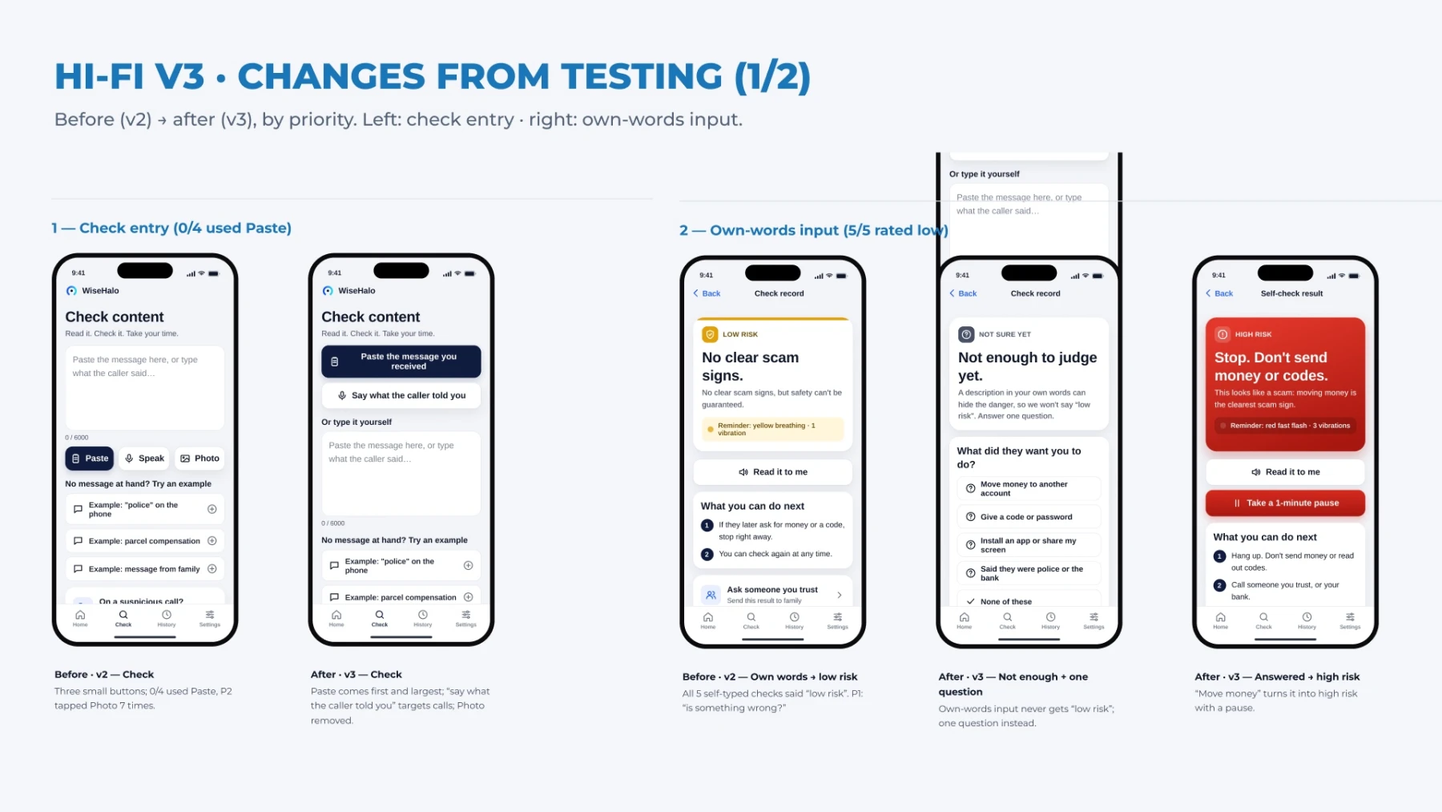
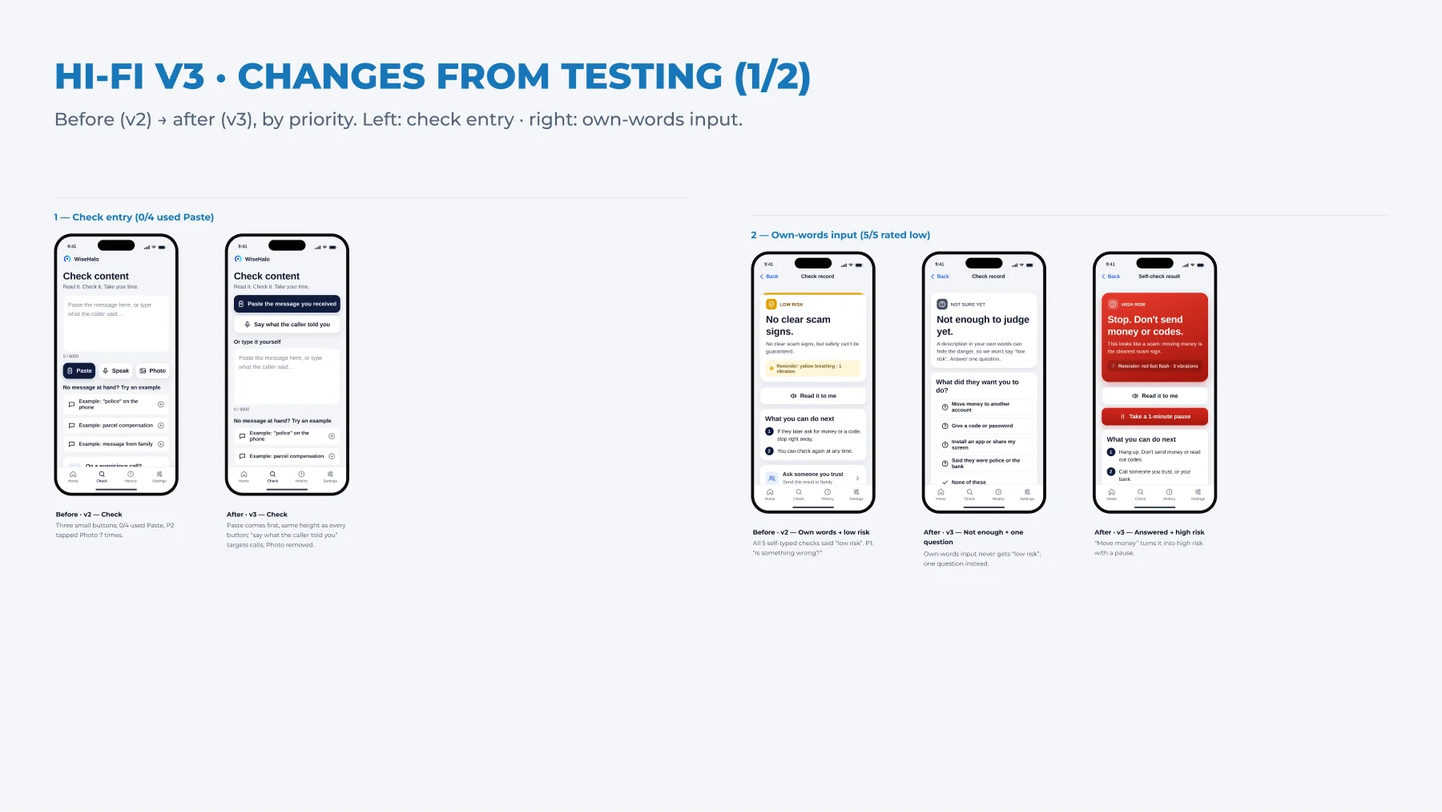
WiseHalo case study: v3 figures match the build
- 48: check entry with Paste at button height and even example rows
- 48b (new): safety pause and one-tap official check, before → after
- 48c (new): after review – text size in onboarding (Standard default), centred ring, swipe to delete
- 50: reflection next steps say the six fixes are built into v3
- 47 alt text updated

diff --git a/works/wisehalo.html b/works/wisehalo.html
@@ -38,7 +38,7 @@ try{if(!sessionStorage.getItem('wz-loaded')&&!matchMedia('(prefers-reduced-motio
 <main class="project">
   <section class="meta"><div class="m-row"><span><span class="l-zh" lang="zh-Hans-CN">项目类型</span><span class="l-en" lang="en">Project type</span></span><span class="span2"><span class="l-zh" lang="zh-Hans-CN">AI + IOT 硕士毕业设计项目</span><span class="l-en" lang="en">AI + IoT MA thesis project</span></span></div><div class="m-row"><span><span class="l-zh" lang="zh-Hans-CN">项目名称</span><span class="l-en" lang="en">Project name</span></span><span class="span2"><span class="l-zh" lang="zh-Hans-CN">WiseHalo｜AI 防诈骗风险提示系统</span><span class="l-en" lang="en">WiseHalo — Making Hidden Scam Systems Visible</span></span></div><div class="m-row"><span><span class="l-zh" lang="zh-Hans-CN">分类</span><span class="l-en" lang="en">Category</span></span><span class="span2"><span class="tag">[<span class="l-zh" lang="zh-Hans-CN">AI</span><span class="l-en" lang="en">AI</span>]</span><span class="tag">[<span class="l-zh" lang="zh-Hans-CN">交互设计</span><span class="l-en" lang="en">Interaction design</span>]</span><span class="tag">[<span class="l-zh" lang="zh-Hans-CN">IOT</span><span class="l-en" lang="en">IoT</span>]</span><span class="tag">[<span class="l-zh" lang="zh-Hans-CN">适老化</span><span class="l-en" lang="en">Age-inclusive</span>]</span></span></div><div class="m-row"><span><span class="l-zh" lang="zh-Hans-CN">时间</span><span class="l-en" lang="en">Date</span></span><span class="span2">11.2026</span></div></section>
   <div class="p-grid">
-    <div class="p-main"><figure class="fig"><img src="../images/wisehalo/00-hero.webp?v=1794632484" width="1800" height="1012" alt=""></figure><div class="sec-head tldr"><span>00</span><span><span class="l-zh" lang="zh-Hans-CN">概要</span><span class="l-en" lang="en">Overview</span></span><span class="sec-text"><span class="l-zh" lang="zh-Hans-CN"><b>问题</b>：50–65 岁的人在诈骗里最缺的，不是更多警告，而是关键时刻有人解释“为什么可疑”，并帮他们停下来。<br><b>洞察</b>：用户想要提醒和解释；但真正止损的案例，都靠暂停和第三方核实。<br><b>方案</b>：AI 解释风险的 iOS App + 桌上提醒器——风险越高反馈越强，高风险时红灯一直亮，直到用户暂停或核实。<br><b>我的角色</b>：独立完成研究、交互与界面、iOS 原型和 ESP32 硬件。<br>20 个公开案例 · 32 份问卷 · 4 位长辈测试 · 3 级风险反馈 · <a class="u" href="#demo">直接试玩 ↓</a></span><span class="l-en" lang="en"><b>Problem</b>: people aged 50–65 don’t need more warnings – they need someone to explain why something is suspicious, and help them stop at the critical moment.<br><b>Insight</b>: users asked for alerts and explanations, yet every stopped case relied on a pause and a third party.<br><b>Design</b>: an iOS app where AI explains the risk, plus a desk reminder – stronger risk, stronger response; on high risk the red light stays on until the user pauses or verifies.<br><b>My role</b>: solo – research, interaction &amp; UI, iOS prototype and ESP32 hardware.<br>20 public cases · 32 surveys · 4 user tests · 3 risk levels · <a class="u" href="#demo">Try the demo ↓</a></span></span></div><div class="sec-head"><span>01</span><span><span class="l-zh" lang="zh-Hans-CN">问题：诈骗是一个系统</span><span class="l-en" lang="en">Problem: scams are systems</span></span><span class="sec-text"><span class="l-zh" lang="zh-Hans-CN">公开案例显示，诈骗从社交平台和日常任务开始接触用户，用虚假身份建立信任，再用紧迫感和小额回报推动用户做出高风险操作。大多数人只看到表面信息，看不到背后的运作方式，也就很难在中途停下来。</span><span class="l-en" lang="en">Public cases show scams reach people through everyday channels, build trust with fake identities, then use urgency and small rewards to push risky actions. Most people only see the surface message, not the system behind it — so it is hard to stop midway.</span></span></div><div class="figs figs-stack"><figure class="fig zoom"><img class="l-zh" src="../images/wisehalo/01-zh.webp?v=1794736027" width="1800" height="1013" alt="" loading="lazy" decoding="async"><img class="l-en" src="../images/wisehalo/01.webp?v=1794632484" width="1800" height="1012" alt="" loading="lazy" decoding="async"></figure></div><div class="sec-head"><span>02</span><span><span class="l-zh" lang="zh-Hans-CN">研究：20 个公开案例 + 32 份问卷</span><span class="l-en" lang="en">Research: 20 public cases + 32 surveys</span></span><span class="sec-text"><span class="l-zh" lang="zh-Hans-CN">我分析了 20 个中国 50–65 岁受害者的公开案例，并对 32 人做了线上问卷（其中 50 岁以上 15 人）。大多数人在可疑互动中会提前退出，但最需要的不是更多警告，而是“为什么可疑”的具体解释、可以马上执行的下一步，以及对保护工具本身的信任。</span><span class="l-en" lang="en">I analysed 20 public cases of victims aged 50–65 in China and ran an online survey with 32 people (15 aged 50+). Most respondents already exit suspicious interactions early — what they need is not more warnings, but a specific explanation of why something is suspicious, an actionable next step, and trust in the protective tool itself.</span></span></div><div class="figs figs-stack"><figure class="fig zoom"><img class="l-zh" src="../images/wisehalo/39-zh.webp?v=1794736027" width="1800" height="1013" alt="" loading="lazy" decoding="async"><img class="l-en" src="../images/wisehalo/39.webp?v=1794732906" width="1800" height="1013" alt="" loading="lazy" decoding="async"></figure><figure class="fig zoom"><img class="l-zh" src="../images/wisehalo/07-zh.webp?v=1794736027" width="1800" height="1013" alt="" loading="lazy" decoding="async"><img class="l-en" src="../images/wisehalo/07.webp?v=1794632485" width="1800" height="1012" alt="" loading="lazy" decoding="async"></figure><figure class="fig zoom"><img class="l-zh" src="../images/wisehalo/08-zh.webp?v=1794736027" width="1800" height="1013" alt="" loading="lazy" decoding="async"><img class="l-en" src="../images/wisehalo/08.webp?v=1794732387" width="1800" height="1013" alt="" loading="lazy" decoding="async"></figure></div><div class="sec-head"><span>03</span><span><span class="l-zh" lang="zh-Hans-CN">策略：风险越高，反馈越强</span><span class="l-en" lang="en">Strategy: stronger risk, stronger response</span></span><span class="sec-text"><span class="l-zh" lang="zh-Hans-CN">设备的反馈随风险逐级升级：低风险用黄色呼吸灯提示“核实来源”；中风险用橙色双脉冲并解释诈骗手法、建议联系信任的人；高风险用红色快闪和重复震动，配合手机全屏提示暂停付款。始终由用户自己决定下一步。</span><span class="l-en" lang="en">Feedback escalates with risk: low risk shows a yellow breathing light and suggests checking the source; medium risk adds an orange double pulse, explains the tactic and suggests contacting someone trusted; high risk uses a fast red flash and repeated vibration with a full-screen prompt to pause the payment. The user always makes the final call.</span></span></div><div class="figs figs-stack"><figure class="fig zoom"><img class="l-zh" src="../images/wisehalo/10-zh.webp?v=1794821514" width="1800" height="1013" alt="" loading="lazy" decoding="async"><img class="l-en" src="../images/wisehalo/10.webp?v=1794821514" width="1800" height="1013" alt="" loading="lazy" decoding="async"></figure></div><div class="sec-head"><span>04</span><span><span class="l-zh" lang="zh-Hans-CN">系统与信息架构</span><span class="l-en" lang="en">System &amp; information architecture</span></span><span class="sec-text"><span class="l-zh" lang="zh-Hans-CN">手机端负责接收可疑内容、调用 AI 分析并解释风险；设备端把风险等级转化为灯光与震动。信息架构围绕“检查 → 理解 → 选择安全行动”三步组织。</span><span class="l-en" lang="en">The phone receives suspicious content, calls the AI analysis and explains the risk; the device translates the risk level into light and vibration. The information architecture follows three steps: check → understand → choose a safe action.</span></span></div><div class="figs figs-stack"><figure class="fig zoom"><img class="l-zh" src="../images/wisehalo/15-zh.webp?v=1794784326" width="1800" height="1013" alt="" loading="lazy" decoding="async"><img class="l-en" src="../images/wisehalo/15.webp?v=1794784326" width="1800" height="1013" alt="" loading="lazy" decoding="async"></figure><figure class="fig zoom"><img class="l-zh" src="../images/wisehalo/16-zh.webp?v=1794784326" width="1800" height="1013" alt="" loading="lazy" decoding="async"><img class="l-en" src="../images/wisehalo/16.webp?v=1794784326" width="1800" height="1013" alt="" loading="lazy" decoding="async"></figure></div><div class="sec-head"><span>05</span><span><span class="l-zh" lang="zh-Hans-CN">界面：从中保真到高保真</span><span class="l-en" lang="en">Interface: from mid-fi to hi-fi</span></span><span class="sec-text"><span class="l-zh" lang="zh-Hans-CN">首页就是由 App 图标生成的“光环开关”：打开是提醒器守护中，关掉是只用手机提醒。鲜艳的颜色只留给光环和风险等级；结果页按“风险等级 → 一句话指令 → 一个主按钮 → 为什么可疑 → 求助”排列。下面依次是：中保真、设计规范、高保真精选与深色模式、引导页。</span><span class="l-en" lang="en">Home is a “halo switch” drawn from the app icon: on means the reminder is guarding, off means phone-only alerts. Bright colour is kept for the halo and risk levels; results follow risk level → one instruction → one primary action → why it’s suspicious → get help. Below: mid-fi, design system, selected hi-fi screens with dark mode, and onboarding.</span></span></div><div class="figs figs-stack"><figure class="fig zoom"><img class="l-zh" src="../images/wisehalo/18-zh.webp?v=1794736027" width="1800" height="1013" alt="" loading="lazy" decoding="async"><img class="l-en" src="../images/wisehalo/18.webp?v=1794634616" width="1800" height="1012" alt="" loading="lazy" decoding="async"></figure><figure class="fig zoom"><img class="l-zh" src="../images/wisehalo/20.webp?v=1794819768" width="1800" height="1013" alt="" loading="lazy" decoding="async"><img class="l-en" src="../images/wisehalo/21.webp?v=1794819768" width="1800" height="1013" alt="" loading="lazy" decoding="async"></figure><figure class="fig zoom"><img class="l-zh" src="../images/wisehalo/28.webp?v=1794819768" width="1800" height="1013" alt="" loading="lazy" decoding="async"><img class="l-en" src="../images/wisehalo/29.webp?v=1794819768" width="1800" height="1013" alt="" loading="lazy" decoding="async"></figure><figure class="fig zoom"><img class="l-zh" src="../images/wisehalo/44-zh.webp?v=1794822133" width="1800" height="3290" alt="" loading="lazy" decoding="async"><img class="l-en" src="../images/wisehalo/44.webp?v=1794822133" width="1800" height="3413" alt="" loading="lazy" decoding="async"></figure><figure class="fig zoom"><img class="l-zh" src="../images/wisehalo/42-zh.webp?v=1794819768" width="1800" height="1104" alt="" loading="lazy" decoding="async"><img class="l-en" src="../images/wisehalo/42.webp?v=1794819768" width="1800" height="1104" alt="" loading="lazy" decoding="async"></figure></div><div class="sec-head" id="demo"><span>06</span><span><span class="l-zh" lang="zh-Hans-CN">可交互原型：试一试</span><span class="l-en" lang="en">Interactive prototype: try it</span></span><span class="sec-text"><span class="l-zh" lang="zh-Hans-CN">先走 4 步引导页，再试：粘贴或选一条示例 → 开始检查 → 看风险结果、先暂停 1 分钟、发给家人；不想打字可以用“通话快速自查”。首页光环可在“只用手机”和“手机 + 提醒器”之间切换。原型用固定规则代替 AI。</span><span class="l-en" lang="en">Start with the 4-step onboarding, then paste or pick an example → Check → see the result, take a 1-minute pause or send it to family; or use the no-typing call self-check. The halo switches between phone-only and phone + reminder. Fixed rules stand in for the AI.</span></span></div><div class="figs figs-stack"><figure class="fig embed phone stage st-halo"><div class="stage-bg" aria-hidden="true"><svg class="stage-halo" viewBox="0 0 236 236" preserveAspectRatio="xMidYMid meet"><defs><linearGradient id="st-halo-g" x1="0" x2="1"><stop offset="0" stop-color="#1450FF"/><stop offset=".55" stop-color="#1A8BFF"/><stop offset="1" stop-color="#12DCF6"/></linearGradient><filter id="st-halo-blur" x="-30%" y="-30%" width="160%" height="160%"><feGaussianBlur stdDeviation="9"/></filter></defs><path class="glow" d="M56.3 191.5A96 96 0 1 1 179.7 191.5"/><path class="echo" d="M38.3 213.0A124 124 0 1 1 197.7 213.0"/><path class="echo e2" d="M21.6 232.9A150 150 0 1 1 214.4 232.9"/><path class="ring" d="M56.3 191.5A96 96 0 1 1 179.7 191.5"/><circle class="led low" cx="34.9" cy="70" r="2.6"/><circle class="led mid" cx="118" cy="22" r="2.6"/><circle class="led high" cx="201.1" cy="70" r="2.6"/></svg><div class="stage-label"><b><span class="l-zh" lang="zh-Hans-CN">可试玩 · 安心护</span><span class="l-en" lang="en">Live demo · WiseHalo</span></b><span><span class="l-zh" lang="zh-Hans-CN">演示模式 · 固定规则代替 AI</span><span class="l-en" lang="en">Demo mode · fixed rules instead of AI</span></span></div><div class="stage-co stage-co1"><span class="n">01</span><b><span class="l-zh" lang="zh-Hans-CN">粘贴 → 检查</span><span class="l-en" lang="en">Paste → Check</span></b><span class="d"><span class="l-zh" lang="zh-Hans-CN">选一条示例，看风险结果</span><span class="l-en" lang="en">Pick an example, see the risk</span></span><i></i></div><div class="stage-co stage-co2"><span class="n">02</span><b><span class="l-zh" lang="zh-Hans-CN">先停一下</span><span class="l-en" lang="en">Pause first</span></b><span class="d"><span class="l-zh" lang="zh-Hans-CN">高风险时暂停 1 分钟，再核实</span><span class="l-en" lang="en">High risk: a 1-minute pause, then verify</span></span><i></i></div><div class="stage-co stage-co3"><span class="n">03</span><b><span class="l-zh" lang="zh-Hans-CN">光环开关</span><span class="l-en" lang="en">Halo switch</span></b><span class="d"><span class="l-zh" lang="zh-Hans-CN">只用手机 ↔ 手机 + 提醒器</span><span class="l-en" lang="en">Phone only ↔ phone + reminder</span></span><i></i></div><div class="stage-co stage-co4"><span class="n">04</span><b><span class="l-zh" lang="zh-Hans-CN">通话快速自查</span><span class="l-en" lang="en">Call self-check</span></b><span class="d"><span class="l-zh" lang="zh-Hans-CN">不用打字，回答 5 个问题</span><span class="l-en" lang="en">No typing, five questions</span></span><i></i></div></div><iframe data-lang-src="../wisehalo-test-v3/?demo=1&amp;frame=1&amp;ob=5&amp;lang={lang}&amp;theme={theme}" title="WiseHalo interactive prototype" loading="lazy" allow="microphone; camera; autoplay; clipboard-write"></iframe><figcaption><a class="u" href="../wisehalo-test-v3/?demo=1&amp;ob=5" target="_blank" rel="noopener"><span class="l-zh" lang="zh-Hans-CN">在新窗口打开，或用手机打开 ↗</span><span class="l-en" lang="en">Open in a new tab or on your phone ↗</span></a></figcaption></figure></div><div class="sec-head"><span>07</span><span><span class="l-zh" lang="zh-Hans-CN">硬件原型：灯光与震动语言</span><span class="l-en" lang="en">Hardware: a language of light and vibration</span></span><span class="sec-text"><span class="l-zh" lang="zh-Hans-CN">用 ESP32-C3、RGB 灯环和震动马达搭建原型：先在 Wokwi 中仿真三种风险等级的反馈逻辑，再在面包板上逐项测试灯光和震动，最后让 App 的 AI 分析结果驱动设备反馈。</span><span class="l-en" lang="en">Built with an ESP32-C3, an RGB LED ring and a vibration motor: the feedback logic for three risk levels was first simulated in Wokwi, then tested on a breadboard, and finally driven by the app&#x27;s AI analysis result.</span></span></div><div class="figs figs-stack"><figure class="fig zoom"><img class="l-zh" src="../images/wisehalo/41-zh.webp?v=1794780180" width="1800" height="1013" alt="" loading="lazy" decoding="async"><img class="l-en" src="../images/wisehalo/41.webp?v=1794780180" width="1800" height="1013" alt="" loading="lazy" decoding="async"></figure><figure class="fig zoom"><img class="l-zh" src="../images/wisehalo/35-zh.webp?v=1794736027" width="1800" height="1013" alt="" loading="lazy" decoding="async"><img class="l-en" src="../images/wisehalo/35.webp?v=1794634622" width="1800" height="1012" alt="" loading="lazy" decoding="async"></figure><figure class="fig zoom"><img class="l-zh" src="../images/wisehalo/37-zh.webp?v=1794900000" width="1800" height="1013" alt="" loading="lazy" decoding="async"><img class="l-en" src="../images/wisehalo/37.webp?v=1794900000" width="1800" height="1013" alt="" loading="lazy" decoding="async"></figure></div><div class="sec-head"><span>08</span><span><span class="l-zh" lang="zh-Hans-CN">用户测试：第一轮</span><span class="l-en" lang="en">Usability test: round 1</span></span><span class="sec-text"><span class="l-zh" lang="zh-Hans-CN">在国内远程测试了 4 位 50–55 岁的目标用户（1 男 3 女）：7 个任务，209 次操作全部自动记录。所有人都独立完成了引导和「发短信给家人」；但只有 1 人做完了 1 分钟暂停，用自己的话描述诈骗时，5 次检查都被判成“低风险”。一位参与者问：“钱不是我花的，它却说低风险，是不是哪里不对？”每条发现都对应一项下一版的修改。「只有手机 vs 手机 + 提醒器」的对比放到第二轮测试。</span><span class="l-en" lang="en">Remote tests in China with four target users aged 50–55 (one man, three women): seven tasks, all 209 actions logged automatically. Everyone completed onboarding and texted family on their own, but only one finished the 1-minute pause, and all five checks typed in their own words came back “low risk”. One tester asked: “The money wasn’t spent by me, but it says low risk — is something wrong?” Every finding maps to a change in the next build. Comparing phone-only with phone + reminder is left for round two.</span></span></div><div class="figs figs-stack"><figure class="fig zoom"><img src="../images/wisehalo/45.webp?v=1794800000" width="1800" height="1013" alt="Round 1 method: 4 participants aged 50–55, 4–31 min sessions, 209 logged actions, 7 tasks" loading="lazy" decoding="async"></figure><figure class="fig zoom"><img src="../images/wisehalo/46.webp?v=1794800000" width="1800" height="1013" alt="Key findings: six usability issues ranked by severity" loading="lazy" decoding="async"></figure><figure class="fig zoom"><img src="../images/wisehalo/47.webp?v=1794900000" width="1800" height="1013" alt="Each finding mapped to a design change for the next build" loading="lazy" decoding="async"></figure><figure class="fig zoom"><img src="../images/wisehalo/48.webp?v=1794800000" width="1800" height="1013" alt="Hi-fi v3 before and after: check entry and own-words input" loading="lazy" decoding="async"></figure><figure class="fig zoom"><img src="../images/wisehalo/49.webp?v=1794800000" width="1800" height="1013" alt="Validation: success criteria checked against round 1 evidence" loading="lazy" decoding="async"></figure></div><div class="sec-head"><span>09</span><span><span class="l-zh" lang="zh-Hans-CN">现状与下一步</span><span class="l-en" lang="en">Status &amp; next steps</span></span><span class="sec-text"><span class="l-zh" lang="zh-Hans-CN">已实现：SwiftUI 高保真 App + ESP32 提醒器，AI 分析结果驱动灯光与震动；另有通话快速自查、读给我听、屏幕共享警告。<br><b>已知局限</b>：iOS 不能读取通话，只能事后自查；演示版用规则代替 AI；骗子可能在电话里指导用户关掉提醒。<br><b>下一步</b>：第一轮测试得出的 6 项修改已做进 v3 测试原型和 App；接下来对 5 位 50–65 岁的用户做第二轮测试：重测新的暂停设计，对比“只有手机”和“手机 + 提醒器”。</span><span class="l-en" lang="en">Working today: a SwiftUI hi-fi app and an ESP32 reminder, with AI results driving light and vibration; plus call self-check, read-aloud and screen-sharing warnings.<br><b>Known limits</b>: iOS can’t read calls, so checks happen after the fact; the demo uses rules instead of AI; a scammer could coach the user to switch the reminder off.<br><b>Next</b>: the six fixes from round one are built into the v3 prototype and app; round two with five users aged 50–65 re-tests the new pause and compares phone-only with phone + reminder.</span></span></div><div class="figs figs-stack"><figure class="fig zoom"><img src="../images/wisehalo/50.webp?v=1794800000" width="1800" height="1013" alt="Reflection: key learnings, what I would do differently, next steps" loading="lazy" decoding="async"></figure></div></div>
+    <div class="p-main"><figure class="fig"><img src="../images/wisehalo/00-hero.webp?v=1794632484" width="1800" height="1012" alt=""></figure><div class="sec-head tldr"><span>00</span><span><span class="l-zh" lang="zh-Hans-CN">概要</span><span class="l-en" lang="en">Overview</span></span><span class="sec-text"><span class="l-zh" lang="zh-Hans-CN"><b>问题</b>：50–65 岁的人在诈骗里最缺的，不是更多警告，而是关键时刻有人解释“为什么可疑”，并帮他们停下来。<br><b>洞察</b>：用户想要提醒和解释；但真正止损的案例，都靠暂停和第三方核实。<br><b>方案</b>：AI 解释风险的 iOS App + 桌上提醒器——风险越高反馈越强，高风险时红灯一直亮，直到用户暂停或核实。<br><b>我的角色</b>：独立完成研究、交互与界面、iOS 原型和 ESP32 硬件。<br>20 个公开案例 · 32 份问卷 · 4 位长辈测试 · 3 级风险反馈 · <a class="u" href="#demo">直接试玩 ↓</a></span><span class="l-en" lang="en"><b>Problem</b>: people aged 50–65 don’t need more warnings – they need someone to explain why something is suspicious, and help them stop at the critical moment.<br><b>Insight</b>: users asked for alerts and explanations, yet every stopped case relied on a pause and a third party.<br><b>Design</b>: an iOS app where AI explains the risk, plus a desk reminder – stronger risk, stronger response; on high risk the red light stays on until the user pauses or verifies.<br><b>My role</b>: solo – research, interaction &amp; UI, iOS prototype and ESP32 hardware.<br>20 public cases · 32 surveys · 4 user tests · 3 risk levels · <a class="u" href="#demo">Try the demo ↓</a></span></span></div><div class="sec-head"><span>01</span><span><span class="l-zh" lang="zh-Hans-CN">问题：诈骗是一个系统</span><span class="l-en" lang="en">Problem: scams are systems</span></span><span class="sec-text"><span class="l-zh" lang="zh-Hans-CN">公开案例显示，诈骗从社交平台和日常任务开始接触用户，用虚假身份建立信任，再用紧迫感和小额回报推动用户做出高风险操作。大多数人只看到表面信息，看不到背后的运作方式，也就很难在中途停下来。</span><span class="l-en" lang="en">Public cases show scams reach people through everyday channels, build trust with fake identities, then use urgency and small rewards to push risky actions. Most people only see the surface message, not the system behind it — so it is hard to stop midway.</span></span></div><div class="figs figs-stack"><figure class="fig zoom"><img class="l-zh" src="../images/wisehalo/01-zh.webp?v=1794736027" width="1800" height="1013" alt="" loading="lazy" decoding="async"><img class="l-en" src="../images/wisehalo/01.webp?v=1794632484" width="1800" height="1012" alt="" loading="lazy" decoding="async"></figure></div><div class="sec-head"><span>02</span><span><span class="l-zh" lang="zh-Hans-CN">研究：20 个公开案例 + 32 份问卷</span><span class="l-en" lang="en">Research: 20 public cases + 32 surveys</span></span><span class="sec-text"><span class="l-zh" lang="zh-Hans-CN">我分析了 20 个中国 50–65 岁受害者的公开案例，并对 32 人做了线上问卷（其中 50 岁以上 15 人）。大多数人在可疑互动中会提前退出，但最需要的不是更多警告，而是“为什么可疑”的具体解释、可以马上执行的下一步，以及对保护工具本身的信任。</span><span class="l-en" lang="en">I analysed 20 public cases of victims aged 50–65 in China and ran an online survey with 32 people (15 aged 50+). Most respondents already exit suspicious interactions early — what they need is not more warnings, but a specific explanation of why something is suspicious, an actionable next step, and trust in the protective tool itself.</span></span></div><div class="figs figs-stack"><figure class="fig zoom"><img class="l-zh" src="../images/wisehalo/39-zh.webp?v=1794736027" width="1800" height="1013" alt="" loading="lazy" decoding="async"><img class="l-en" src="../images/wisehalo/39.webp?v=1794732906" width="1800" height="1013" alt="" loading="lazy" decoding="async"></figure><figure class="fig zoom"><img class="l-zh" src="../images/wisehalo/07-zh.webp?v=1794736027" width="1800" height="1013" alt="" loading="lazy" decoding="async"><img class="l-en" src="../images/wisehalo/07.webp?v=1794632485" width="1800" height="1012" alt="" loading="lazy" decoding="async"></figure><figure class="fig zoom"><img class="l-zh" src="../images/wisehalo/08-zh.webp?v=1794736027" width="1800" height="1013" alt="" loading="lazy" decoding="async"><img class="l-en" src="../images/wisehalo/08.webp?v=1794732387" width="1800" height="1013" alt="" loading="lazy" decoding="async"></figure></div><div class="sec-head"><span>03</span><span><span class="l-zh" lang="zh-Hans-CN">策略：风险越高，反馈越强</span><span class="l-en" lang="en">Strategy: stronger risk, stronger response</span></span><span class="sec-text"><span class="l-zh" lang="zh-Hans-CN">设备的反馈随风险逐级升级：低风险用黄色呼吸灯提示“核实来源”；中风险用橙色双脉冲并解释诈骗手法、建议联系信任的人；高风险用红色快闪和重复震动，配合手机全屏提示暂停付款。始终由用户自己决定下一步。</span><span class="l-en" lang="en">Feedback escalates with risk: low risk shows a yellow breathing light and suggests checking the source; medium risk adds an orange double pulse, explains the tactic and suggests contacting someone trusted; high risk uses a fast red flash and repeated vibration with a full-screen prompt to pause the payment. The user always makes the final call.</span></span></div><div class="figs figs-stack"><figure class="fig zoom"><img class="l-zh" src="../images/wisehalo/10-zh.webp?v=1794821514" width="1800" height="1013" alt="" loading="lazy" decoding="async"><img class="l-en" src="../images/wisehalo/10.webp?v=1794821514" width="1800" height="1013" alt="" loading="lazy" decoding="async"></figure></div><div class="sec-head"><span>04</span><span><span class="l-zh" lang="zh-Hans-CN">系统与信息架构</span><span class="l-en" lang="en">System &amp; information architecture</span></span><span class="sec-text"><span class="l-zh" lang="zh-Hans-CN">手机端负责接收可疑内容、调用 AI 分析并解释风险；设备端把风险等级转化为灯光与震动。信息架构围绕“检查 → 理解 → 选择安全行动”三步组织。</span><span class="l-en" lang="en">The phone receives suspicious content, calls the AI analysis and explains the risk; the device translates the risk level into light and vibration. The information architecture follows three steps: check → understand → choose a safe action.</span></span></div><div class="figs figs-stack"><figure class="fig zoom"><img class="l-zh" src="../images/wisehalo/15-zh.webp?v=1794784326" width="1800" height="1013" alt="" loading="lazy" decoding="async"><img class="l-en" src="../images/wisehalo/15.webp?v=1794784326" width="1800" height="1013" alt="" loading="lazy" decoding="async"></figure><figure class="fig zoom"><img class="l-zh" src="../images/wisehalo/16-zh.webp?v=1794784326" width="1800" height="1013" alt="" loading="lazy" decoding="async"><img class="l-en" src="../images/wisehalo/16.webp?v=1794784326" width="1800" height="1013" alt="" loading="lazy" decoding="async"></figure></div><div class="sec-head"><span>05</span><span><span class="l-zh" lang="zh-Hans-CN">界面：从中保真到高保真</span><span class="l-en" lang="en">Interface: from mid-fi to hi-fi</span></span><span class="sec-text"><span class="l-zh" lang="zh-Hans-CN">首页就是由 App 图标生成的“光环开关”：打开是提醒器守护中，关掉是只用手机提醒。鲜艳的颜色只留给光环和风险等级；结果页按“风险等级 → 一句话指令 → 一个主按钮 → 为什么可疑 → 求助”排列。下面依次是：中保真、设计规范、高保真精选与深色模式、引导页。</span><span class="l-en" lang="en">Home is a “halo switch” drawn from the app icon: on means the reminder is guarding, off means phone-only alerts. Bright colour is kept for the halo and risk levels; results follow risk level → one instruction → one primary action → why it’s suspicious → get help. Below: mid-fi, design system, selected hi-fi screens with dark mode, and onboarding.</span></span></div><div class="figs figs-stack"><figure class="fig zoom"><img class="l-zh" src="../images/wisehalo/18-zh.webp?v=1794736027" width="1800" height="1013" alt="" loading="lazy" decoding="async"><img class="l-en" src="../images/wisehalo/18.webp?v=1794634616" width="1800" height="1012" alt="" loading="lazy" decoding="async"></figure><figure class="fig zoom"><img class="l-zh" src="../images/wisehalo/20.webp?v=1794819768" width="1800" height="1013" alt="" loading="lazy" decoding="async"><img class="l-en" src="../images/wisehalo/21.webp?v=1794819768" width="1800" height="1013" alt="" loading="lazy" decoding="async"></figure><figure class="fig zoom"><img class="l-zh" src="../images/wisehalo/28.webp?v=1794819768" width="1800" height="1013" alt="" loading="lazy" decoding="async"><img class="l-en" src="../images/wisehalo/29.webp?v=1794819768" width="1800" height="1013" alt="" loading="lazy" decoding="async"></figure><figure class="fig zoom"><img class="l-zh" src="../images/wisehalo/44-zh.webp?v=1794822133" width="1800" height="3290" alt="" loading="lazy" decoding="async"><img class="l-en" src="../images/wisehalo/44.webp?v=1794822133" width="1800" height="3413" alt="" loading="lazy" decoding="async"></figure><figure class="fig zoom"><img class="l-zh" src="../images/wisehalo/42-zh.webp?v=1794819768" width="1800" height="1104" alt="" loading="lazy" decoding="async"><img class="l-en" src="../images/wisehalo/42.webp?v=1794819768" width="1800" height="1104" alt="" loading="lazy" decoding="async"></figure></div><div class="sec-head" id="demo"><span>06</span><span><span class="l-zh" lang="zh-Hans-CN">可交互原型：试一试</span><span class="l-en" lang="en">Interactive prototype: try it</span></span><span class="sec-text"><span class="l-zh" lang="zh-Hans-CN">先走 4 步引导页，再试：粘贴或选一条示例 → 开始检查 → 看风险结果、先暂停 1 分钟、发给家人；不想打字可以用“通话快速自查”。首页光环可在“只用手机”和“手机 + 提醒器”之间切换。原型用固定规则代替 AI。</span><span class="l-en" lang="en">Start with the 4-step onboarding, then paste or pick an example → Check → see the result, take a 1-minute pause or send it to family; or use the no-typing call self-check. The halo switches between phone-only and phone + reminder. Fixed rules stand in for the AI.</span></span></div><div class="figs figs-stack"><figure class="fig embed phone stage st-halo"><div class="stage-bg" aria-hidden="true"><svg class="stage-halo" viewBox="0 0 236 236" preserveAspectRatio="xMidYMid meet"><defs><linearGradient id="st-halo-g" x1="0" x2="1"><stop offset="0" stop-color="#1450FF"/><stop offset=".55" stop-color="#1A8BFF"/><stop offset="1" stop-color="#12DCF6"/></linearGradient><filter id="st-halo-blur" x="-30%" y="-30%" width="160%" height="160%"><feGaussianBlur stdDeviation="9"/></filter></defs><path class="glow" d="M56.3 191.5A96 96 0 1 1 179.7 191.5"/><path class="echo" d="M38.3 213.0A124 124 0 1 1 197.7 213.0"/><path class="echo e2" d="M21.6 232.9A150 150 0 1 1 214.4 232.9"/><path class="ring" d="M56.3 191.5A96 96 0 1 1 179.7 191.5"/><circle class="led low" cx="34.9" cy="70" r="2.6"/><circle class="led mid" cx="118" cy="22" r="2.6"/><circle class="led high" cx="201.1" cy="70" r="2.6"/></svg><div class="stage-label"><b><span class="l-zh" lang="zh-Hans-CN">可试玩 · 安心护</span><span class="l-en" lang="en">Live demo · WiseHalo</span></b><span><span class="l-zh" lang="zh-Hans-CN">演示模式 · 固定规则代替 AI</span><span class="l-en" lang="en">Demo mode · fixed rules instead of AI</span></span></div><div class="stage-co stage-co1"><span class="n">01</span><b><span class="l-zh" lang="zh-Hans-CN">粘贴 → 检查</span><span class="l-en" lang="en">Paste → Check</span></b><span class="d"><span class="l-zh" lang="zh-Hans-CN">选一条示例，看风险结果</span><span class="l-en" lang="en">Pick an example, see the risk</span></span><i></i></div><div class="stage-co stage-co2"><span class="n">02</span><b><span class="l-zh" lang="zh-Hans-CN">先停一下</span><span class="l-en" lang="en">Pause first</span></b><span class="d"><span class="l-zh" lang="zh-Hans-CN">高风险时暂停 1 分钟，再核实</span><span class="l-en" lang="en">High risk: a 1-minute pause, then verify</span></span><i></i></div><div class="stage-co stage-co3"><span class="n">03</span><b><span class="l-zh" lang="zh-Hans-CN">光环开关</span><span class="l-en" lang="en">Halo switch</span></b><span class="d"><span class="l-zh" lang="zh-Hans-CN">只用手机 ↔ 手机 + 提醒器</span><span class="l-en" lang="en">Phone only ↔ phone + reminder</span></span><i></i></div><div class="stage-co stage-co4"><span class="n">04</span><b><span class="l-zh" lang="zh-Hans-CN">通话快速自查</span><span class="l-en" lang="en">Call self-check</span></b><span class="d"><span class="l-zh" lang="zh-Hans-CN">不用打字，回答 5 个问题</span><span class="l-en" lang="en">No typing, five questions</span></span><i></i></div></div><iframe data-lang-src="../wisehalo-test-v3/?demo=1&amp;frame=1&amp;ob=5&amp;lang={lang}&amp;theme={theme}" title="WiseHalo interactive prototype" loading="lazy" allow="microphone; camera; autoplay; clipboard-write"></iframe><figcaption><a class="u" href="../wisehalo-test-v3/?demo=1&amp;ob=5" target="_blank" rel="noopener"><span class="l-zh" lang="zh-Hans-CN">在新窗口打开，或用手机打开 ↗</span><span class="l-en" lang="en">Open in a new tab or on your phone ↗</span></a></figcaption></figure></div><div class="sec-head"><span>07</span><span><span class="l-zh" lang="zh-Hans-CN">硬件原型：灯光与震动语言</span><span class="l-en" lang="en">Hardware: a language of light and vibration</span></span><span class="sec-text"><span class="l-zh" lang="zh-Hans-CN">用 ESP32-C3、RGB 灯环和震动马达搭建原型：先在 Wokwi 中仿真三种风险等级的反馈逻辑，再在面包板上逐项测试灯光和震动，最后让 App 的 AI 分析结果驱动设备反馈。</span><span class="l-en" lang="en">Built with an ESP32-C3, an RGB LED ring and a vibration motor: the feedback logic for three risk levels was first simulated in Wokwi, then tested on a breadboard, and finally driven by the app&#x27;s AI analysis result.</span></span></div><div class="figs figs-stack"><figure class="fig zoom"><img class="l-zh" src="../images/wisehalo/41-zh.webp?v=1794780180" width="1800" height="1013" alt="" loading="lazy" decoding="async"><img class="l-en" src="../images/wisehalo/41.webp?v=1794780180" width="1800" height="1013" alt="" loading="lazy" decoding="async"></figure><figure class="fig zoom"><img class="l-zh" src="../images/wisehalo/35-zh.webp?v=1794736027" width="1800" height="1013" alt="" loading="lazy" decoding="async"><img class="l-en" src="../images/wisehalo/35.webp?v=1794634622" width="1800" height="1012" alt="" loading="lazy" decoding="async"></figure><figure class="fig zoom"><img class="l-zh" src="../images/wisehalo/37-zh.webp?v=1794900000" width="1800" height="1013" alt="" loading="lazy" decoding="async"><img class="l-en" src="../images/wisehalo/37.webp?v=1794900000" width="1800" height="1013" alt="" loading="lazy" decoding="async"></figure></div><div class="sec-head"><span>08</span><span><span class="l-zh" lang="zh-Hans-CN">用户测试：第一轮</span><span class="l-en" lang="en">Usability test: round 1</span></span><span class="sec-text"><span class="l-zh" lang="zh-Hans-CN">在国内远程测试了 4 位 50–55 岁的目标用户（1 男 3 女）：7 个任务，209 次操作全部自动记录。所有人都独立完成了引导和「发短信给家人」；但只有 1 人做完了 1 分钟暂停，用自己的话描述诈骗时，5 次检查都被判成“低风险”。一位参与者问：“钱不是我花的，它却说低风险，是不是哪里不对？”每条发现都对应一项下一版的修改。「只有手机 vs 手机 + 提醒器」的对比放到第二轮测试。</span><span class="l-en" lang="en">Remote tests in China with four target users aged 50–55 (one man, three women): seven tasks, all 209 actions logged automatically. Everyone completed onboarding and texted family on their own, but only one finished the 1-minute pause, and all five checks typed in their own words came back “low risk”. One tester asked: “The money wasn’t spent by me, but it says low risk — is something wrong?” Every finding maps to a change in the next build. Comparing phone-only with phone + reminder is left for round two.</span></span></div><div class="figs figs-stack"><figure class="fig zoom"><img src="../images/wisehalo/45.webp?v=1794800000" width="1800" height="1013" alt="Round 1 method: 4 participants aged 50–55, 4–31 min sessions, 209 logged actions, 7 tasks" loading="lazy" decoding="async"></figure><figure class="fig zoom"><img src="../images/wisehalo/46.webp?v=1794800000" width="1800" height="1013" alt="Key findings: six usability issues ranked by severity" loading="lazy" decoding="async"></figure><figure class="fig zoom"><img src="../images/wisehalo/47.webp?v=1794900000" width="1800" height="1013" alt="Each finding mapped to a design change, all six built into v3" loading="lazy" decoding="async"></figure><figure class="fig zoom"><img src="../images/wisehalo/48.webp?v=1795000000" width="1800" height="1013" alt="Hi-fi v3 before and after: check entry and own-words input" loading="lazy" decoding="async"></figure><figure class="fig zoom"><img src="../images/wisehalo/48b.webp?v=1795000000" width="1800" height="1013" alt="Hi-fi v3 before and after: safety pause and official check" loading="lazy" decoding="async"></figure><figure class="fig zoom"><img src="../images/wisehalo/48c.webp?v=1795000000" width="1800" height="1013" alt="Hi-fi v3 after review: text size in onboarding, centred ring, swipe left to delete" loading="lazy" decoding="async"></figure><figure class="fig zoom"><img src="../images/wisehalo/49.webp?v=1794800000" width="1800" height="1013" alt="Validation: success criteria checked against round 1 evidence" loading="lazy" decoding="async"></figure></div><div class="sec-head"><span>09</span><span><span class="l-zh" lang="zh-Hans-CN">现状与下一步</span><span class="l-en" lang="en">Status &amp; next steps</span></span><span class="sec-text"><span class="l-zh" lang="zh-Hans-CN">已实现：SwiftUI 高保真 App + ESP32 提醒器，AI 分析结果驱动灯光与震动；另有通话快速自查、读给我听、屏幕共享警告。<br><b>已知局限</b>：iOS 不能读取通话，只能事后自查；演示版用规则代替 AI；骗子可能在电话里指导用户关掉提醒。<br><b>下一步</b>：第一轮测试得出的 6 项修改已做进 v3 测试原型和 App；接下来对 5 位 50–65 岁的用户做第二轮测试：重测新的暂停设计，对比“只有手机”和“手机 + 提醒器”。</span><span class="l-en" lang="en">Working today: a SwiftUI hi-fi app and an ESP32 reminder, with AI results driving light and vibration; plus call self-check, read-aloud and screen-sharing warnings.<br><b>Known limits</b>: iOS can’t read calls, so checks happen after the fact; the demo uses rules instead of AI; a scammer could coach the user to switch the reminder off.<br><b>Next</b>: the six fixes from round one are built into the v3 prototype and app; round two with five users aged 50–65 re-tests the new pause and compares phone-only with phone + reminder.</span></span></div><div class="figs figs-stack"><figure class="fig zoom"><img src="../images/wisehalo/50.webp?v=1795000000" width="1800" height="1013" alt="Reflection: key learnings, what I would do differently, next steps" loading="lazy" decoding="async"></figure></div></div>
     <aside class="p-side"><div class="sticky"><p><span class="l-zh" lang="zh-Hans-CN">WISEHALO 是我的硕士毕业设计，一个结合 AI 风险分析与实体提醒设备的防诈骗体验项目。项目把可疑信息交给 AI 解释“为什么可疑”，并通过灯光与震动在关键时刻提醒用户先停下来，探索如何让隐藏在日常沟通中的诈骗系统变得可见、可理解、可应对。</span><span class="l-en" lang="en">WISEHALO is my MA thesis: an anti-scam experience combining AI risk analysis with a physical alert device. It asks AI to explain why a message is suspicious and uses light and vibration to prompt a pause at the critical moment — making the scam systems hidden in everyday communication visible, understandable and actionable.</span></p><nav class="toc" data-toc aria-label="Sections"></nav></div></aside>
   </div>
   <section class="meta p-foot"><div class="m-row"><span><span class="l-zh" lang="zh-Hans-CN">CREDITS</span><span class="l-en" lang="en">CREDITS</span></span><span class="span2"><span class="l-zh" lang="zh-Hans-CN">用户研究｜AI 功能设计｜交互设计｜界面设计｜硬件原型</span><span class="l-en" lang="en">User research | AI feature design | Interaction design | UI | Hardware prototyping</span></span></div><div class="m-row"><span><span class="l-zh" lang="zh-Hans-CN">项目性质</span><span class="l-en" lang="en">Format</span></span><span class="span2"><span class="l-zh" lang="zh-Hans-CN">硕士毕业设计 · 个人项目</span><span class="l-en" lang="en">MA thesis · Solo project</span></span></div><div class="m-row"><span><span class="l-zh" lang="zh-Hans-CN">团队</span><span class="l-en" lang="en">Team</span></span><span class="span2"><span class="l-zh" lang="zh-Hans-CN">个人项目</span><span class="l-en" lang="en">Solo</span></span></div><div class="m-row"><span><span class="l-zh" lang="zh-Hans-CN">课程</span><span class="l-en" lang="en">Course</span></span><span class="span2">ITGM 748 · SCAD</span></div><div class="m-row"><span><span class="l-zh" lang="zh-Hans-CN">周期</span><span class="l-en" lang="en">Timeline</span></span><span class="span2">2026.09 – 2026.11</span></div><div class="m-row"><span><span class="l-zh" lang="zh-Hans-CN">工具</span><span class="l-en" lang="en">Tools</span></span><span class="span2">Figma · ESP32-C3 · Wokwi · LLM API · Rhino</span></div><div class="m-row"><span><span class="l-zh" lang="zh-Hans-CN">状态</span><span class="l-en" lang="en">Status</span></span><span class="span2"><span class="l-zh" lang="zh-Hans-CN">进行中</span><span class="l-en" lang="en">In progress</span></span></div><div class="m-row pager"><span></span><span class="span2"><a href="ai-companion-toy.html">NEXT ›</a></span></div></section>
